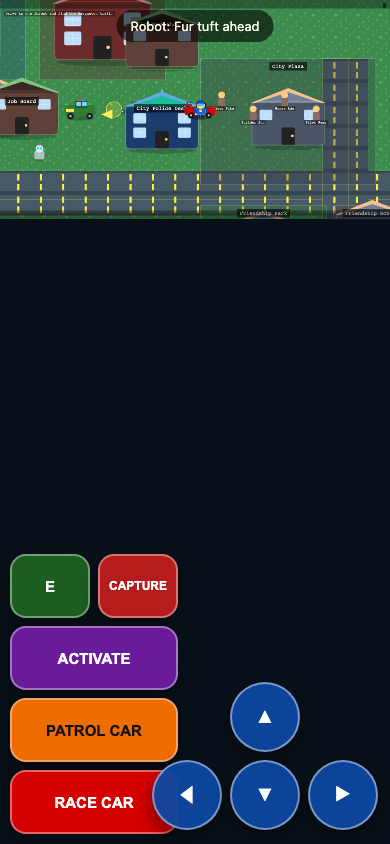
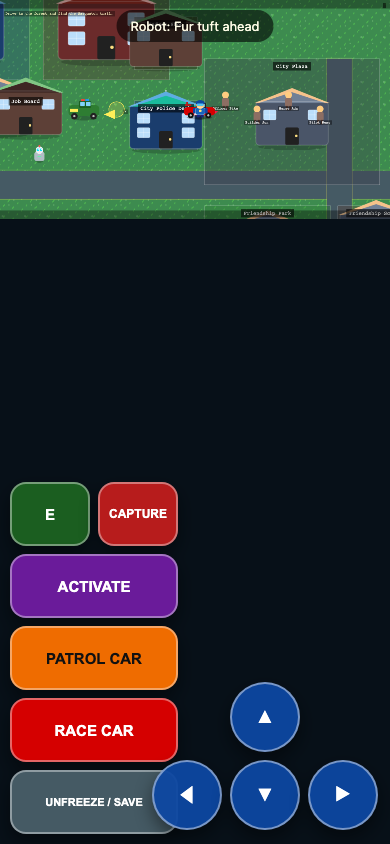
fix(v1.0.8): stop freezes — trail cap, lighter world, autosave, UNFREEZE

diff --git a/src/game/scenes/GameScene.ts b/src/game/scenes/GameScene.ts
@@ -87,6 +87,7 @@ export class GameScene extends Phaser.Scene {
   private jobs = new JobSystem();
   private inventory = new InventorySystem();
   private facing = 1;
+  private lastToast = '';
   private garageCredited = false;
   private mysteries = new MysterySystem();
   private police = new PoliceSystem();
@@ -205,6 +206,13 @@ export class GameScene extends Phaser.Scene {
         this.paused = false;
         this.mapOpen = false;
       },
+      recover: () => {
+        this.paused = false;
+        this.mapOpen = false;
+        this.player?.setVelocity(0, 0);
+        this.persistSave();
+        setDomStatus('Recovered + saved. Continue!');
+      },
       interact: () => {
         this.paused = false;
         this.mapOpen = false;
@@ -247,7 +255,7 @@ export class GameScene extends Phaser.Scene {
     if (this.registry.get('loadSave')) {
       this.applySave();
     }
-    this.time.addEvent({ delay: 8000, loop: true, callback: () => this.persistSave() });
+    this.time.addEvent({ delay: 3000, loop: true, callback: () => this.persistSave() });
   }
 
   private persistSave(): void {
@@ -295,23 +303,18 @@ export class GameScene extends Phaser.Scene {
   }
 
   private buildOutdoorWorld(): void {
-    // Tiled grass background
-    for (let x = 0; x < WORLD.width; x += 64) {
-      for (let y = 0; y < WORLD.height; y += 64) {
-        const tile = this.add.image(x + 32, y + 32, 'tile_grass').setDepth(0);
-        this.worldLayer.add(tile);
-      }
-    }
+    // One TileSprite instead of 2000+ images (was freezing phones)
+    const grass = this.add
+      .tileSprite(WORLD.width / 2, WORLD.height / 2, WORLD.width, WORLD.height, 'tile_grass')
+      .setDepth(0);
+    this.worldLayer.add(grass);
 
-    // Roads with asphalt tiles
+    // Roads as few rectangles + dashed line (not hundreds of tiles)
     for (const road of ROADS) {
-      for (let x = road.x; x < road.x + road.w; x += 64) {
-        for (let y = road.y; y < road.y + road.h; y += 64) {
-          const tile = this.add.image(x + 32, y + 32, 'tile_road').setDepth(1);
-          this.worldLayer.add(tile);
-        }
-      }
-      // curb outline
+      const asphalt = this.add
+        .rectangle(road.x + road.w / 2, road.y + road.h / 2, road.w, road.h, 0x455a64, 1)
+        .setDepth(1);
+      this.worldLayer.add(asphalt);
       const curb = this.add
         .rectangle(road.x + road.w / 2, road.y + road.h / 2, road.w + 4, road.h + 4)
         .setStrokeStyle(2, 0xffee58, 0.25)
@@ -624,6 +627,7 @@ export class GameScene extends Phaser.Scene {
   }
 
   update(_time: number, delta: number): void {
+    try {
     // Always apply DOM/keyboard movement — never let pause eat controls
     this.handleMovement();
     if (this.paused || this.mapOpen) {
@@ -652,8 +656,20 @@ export class GameScene extends Phaser.Scene {
       audio.success();
     }
     const hudLine = this.interactPrompt || this.statusLine || PHASE_HINTS[this.phase];
-    setDomStatus(hudLine);
+    if (hudLine && hudLine !== this.lastToast) {
+      this.lastToast = hudLine;
+      setDomStatus(hudLine);
+    }
     setDomMeta(this.inventory.summary() + " · " + this.mysteries.summary(), `Job: ${this.jobs.title()}`);
+    this.trail.updateThrottle(delta);
+    } catch (err) {
+      console.error('[E-CRAFT] frame error', err);
+      this.paused = false;
+      this.mapOpen = false;
+      this.player?.setVelocity(0, 0);
+      setDomStatus('Glitch recovered — keep playing (progress autosaved)');
+      try { this.persistSave(); } catch { /* ignore */ }
+    }
   }
 
   private updateObjectiveMarker(): void {
@@ -1281,6 +1297,7 @@ export class GameScene extends Phaser.Scene {
       this.setPhase(MissionPhase.CanDrive);
       this.statusLine = 'Driving! Use WASD / pad — go east to the forest.';
     }
+    this.persistSave();
     audio.drive();
     // Kick forward so player instantly feels driving
     this.player.setVelocity(420, 0);
@@ -1472,6 +1489,7 @@ export class GameScene extends Phaser.Scene {
     this.statusLine = 'Sasquatch DOWN! Tap GET IN CAR to load him.';
     setDomStatus(this.statusLine);
     this.trail.clearFallback();
+    this.persistSave();
   }
 
   private enterLair(): void {

diff --git a/src/ui/domOverlay.ts b/src/ui/domOverlay.ts
@@ -35,6 +35,7 @@ type EcraftApi = {
   activate?: () => void;
   enterCar?: () => void;
   enterRaceCar?: () => void;
+  recover?: () => void;
   unpause?: () => void;
   getState?: () => { flags?: Record<string, boolean>; prompt?: string };
 };
@@ -116,6 +117,7 @@ export function installDomOverlay(): void {
     #ecraft-actions .car { background: #ef6c00; color: #111; grid-column: 1 / -1; }
     #ecraft-actions .actv { background: #6a1b9a; grid-column: 1 / -1; }
     #ecraft-actions .race { background: #d50000; color: #fff; grid-column: 1 / -1; }
+    #ecraft-actions .rec { background: #455a64; color: #fff; grid-column: 1 / -1; font-size: 11px; }
   `;
   document.head.appendChild(style);
 
@@ -129,6 +131,7 @@ export function installDomOverlay(): void {
       <button type="button" class="actv" id="btn-activate">ACTIVATE</button>
       <button type="button" class="car" id="btn-car">PATROL CAR</button>
       <button type="button" class="race" id="btn-race">RACE CAR</button>
+      <button type="button" class="rec" id="btn-recover">UNFREEZE / SAVE</button>
     </div>
     <div id="ecraft-pad" aria-label="movement pad">
       <span></span><button type="button" data-dir="up">▲</button><span></span>
@@ -206,6 +209,7 @@ export function installDomOverlay(): void {
   bindAction('btn-activate', () => api()?.activate?.(), 'Activate');
   bindAction('btn-car', () => api()?.enterCar?.(), 'Patrol Car');
   bindAction('btn-race', () => api()?.enterRaceCar?.(), 'Race Car');
+  bindAction('btn-recover', () => api()?.recover?.(), 'Recovered');
 
   window.addEventListener(
     'keydown',

diff --git a/src/game/systems/TrailSystem.ts b/src/game/systems/TrailSystem.ts
@@ -22,6 +22,9 @@ export class TrailSystem {
   private nextId = 1;
   private lastDropDist = 0;
   private readonly dropEvery = 70;
+  private readonly MAX_CLUES = 60;
+  private pathDirty = false;
+  private pathRedrawCooldown = 0;
   private fallbackMarker?: Phaser.GameObjects.Container;
   private layer: Phaser.GameObjects.Container;
   private pathGfx?: Phaser.GameObjects.Graphics;
@@ -79,7 +82,12 @@ export class TrailSystem {
       discovered: false,
     };
     this.clues.push(clue);
-    this.redrawSoftPath();
+    // Cap trail length — unbounded graphics was freezing phones
+    while (this.clues.length > this.MAX_CLUES) {
+      const old = this.clues.shift();
+      old?.sprite.destroy(true);
+    }
+    this.pathDirty = true;
     return clue;
   }
 
@@ -210,6 +218,16 @@ export class TrailSystem {
   clearFallback(): void {
     this.fallbackMarker?.destroy();
     this.fallbackMarker = undefined;
+  }
+
+  /** Call each frame — cheap path redraw throttle. */
+  updateThrottle(delta: number): void {
+    this.pathRedrawCooldown -= delta;
+    if (this.pathDirty && this.pathRedrawCooldown <= 0) {
+      this.redrawSoftPath();
+      this.pathDirty = false;
+      this.pathRedrawCooldown = 250;
+    }
   }
 
   markNearbyDiscovered(px: number, py: number, radius = 60): number {

diff --git a/src/game/scenes/BootScene.ts b/src/game/scenes/BootScene.ts
@@ -26,8 +26,11 @@ export class BootScene extends Phaser.Scene {
     this.makeBuilding('bldg_forest_cabin', 0x5d4037, 0x81c784, 0x3e2723, false);
     this.makeDoor();
     this.makeTrailIcons();
-    const skip = new URLSearchParams(location.search).get('skiptitle') === '1';
-    this.scene.start(skip ? 'Game' : 'Title');
+    const params = new URLSearchParams(location.search);
+    const skip = params.get('skiptitle') === '1';
+    const cont = params.get('continue') === '1';
+    if (cont) this.registry.set('loadSave', true);
+    this.scene.start(skip || cont ? 'Game' : 'Title');
   }
 
   private g(): Phaser.GameObjects.Graphics {

diff --git a/CHANGELOG.md b/CHANGELOG.md
@@ -1,5 +1,16 @@
 # Changelog
 
+## 1.0.8 — 2026-09-05 — ANTI-FREEZE
+
+### Fixed
+- Trail clue cap (was growing forever → phone freeze)
+- Grass/road no longer spawn 2000+ tile images
+- Frame try/catch + UNFREEZE / SAVE button
+- Autosave every 3s + on capture/car
+- Toast no longer spam every frame
+- Continue via `?continue=1`
+
+
 ## 1.0.7 — 2026-09-05 — RACE CAR + BOTH CARS DRIVE
 
 ### Added
